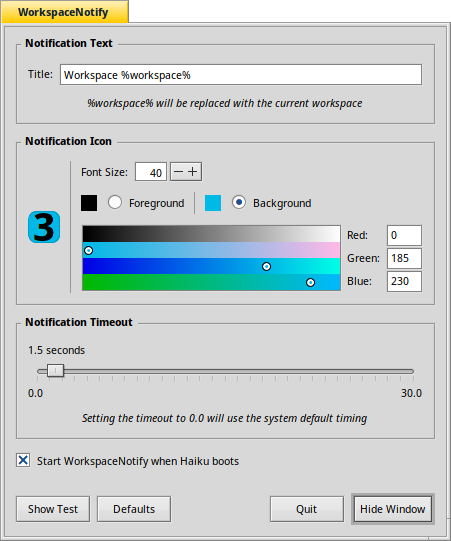
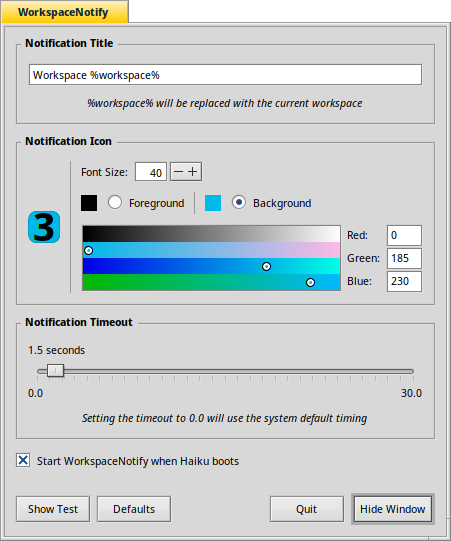
WatcherWindow: remove the label from the title BTextControl

Changed region(s): [[0.0621, 0.1183, 0.4346, 0.1774], [0.2173, 0.0591, 0.2483, 0.0887]]

diff --git a/WatcherWindow.cpp b/WatcherWindow.cpp
@@ -106,11 +106,11 @@ WatcherWindow::WatcherWindow(BRect frame)
 
 	BGroupLayout* textLayout = BLayoutBuilder::Group<>(B_VERTICAL)
 		.SetInsets(B_USE_DEFAULT_SPACING)
-		.Add(fTitleControl = new BTextControl("Title:", "Workspace %workspace%", NULL))
+		.Add(fTitleControl = new BTextControl("", "Workspace %workspace%", NULL))
 		.Add(tipView);
 
 	BBox* textBox = new BBox("TextBox");
-	textBox->SetLabel("Notification Text");
+	textBox->SetLabel("Notification Title");
 	textBox->AddChild(textLayout->View());
 
 	fTimeoutSlider = new BSlider("TimeoutSlider", "seconds", new BMessage(kActionTimeout), 0, 60, B_HORIZONTAL);
